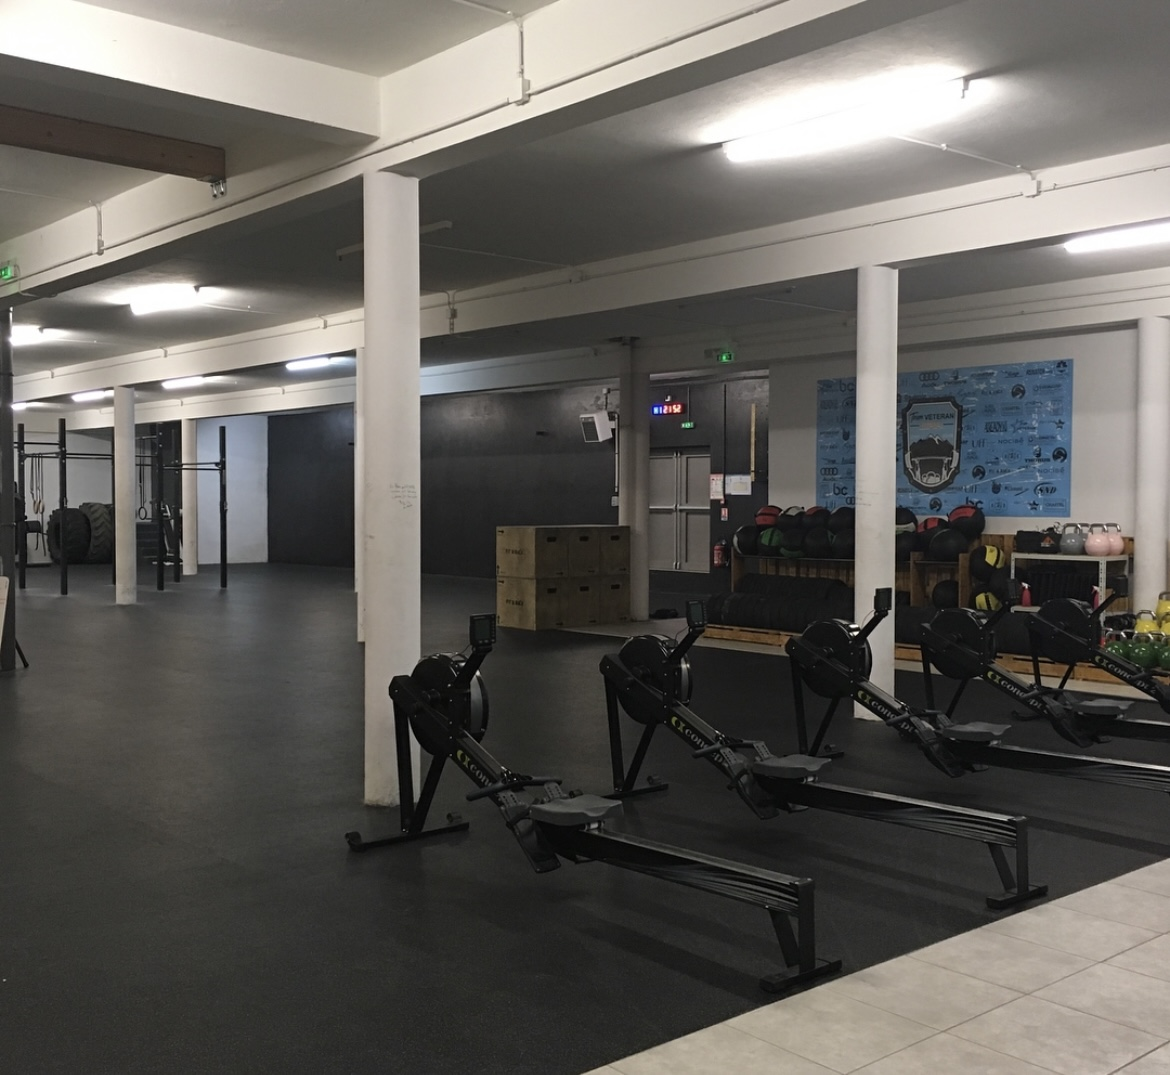
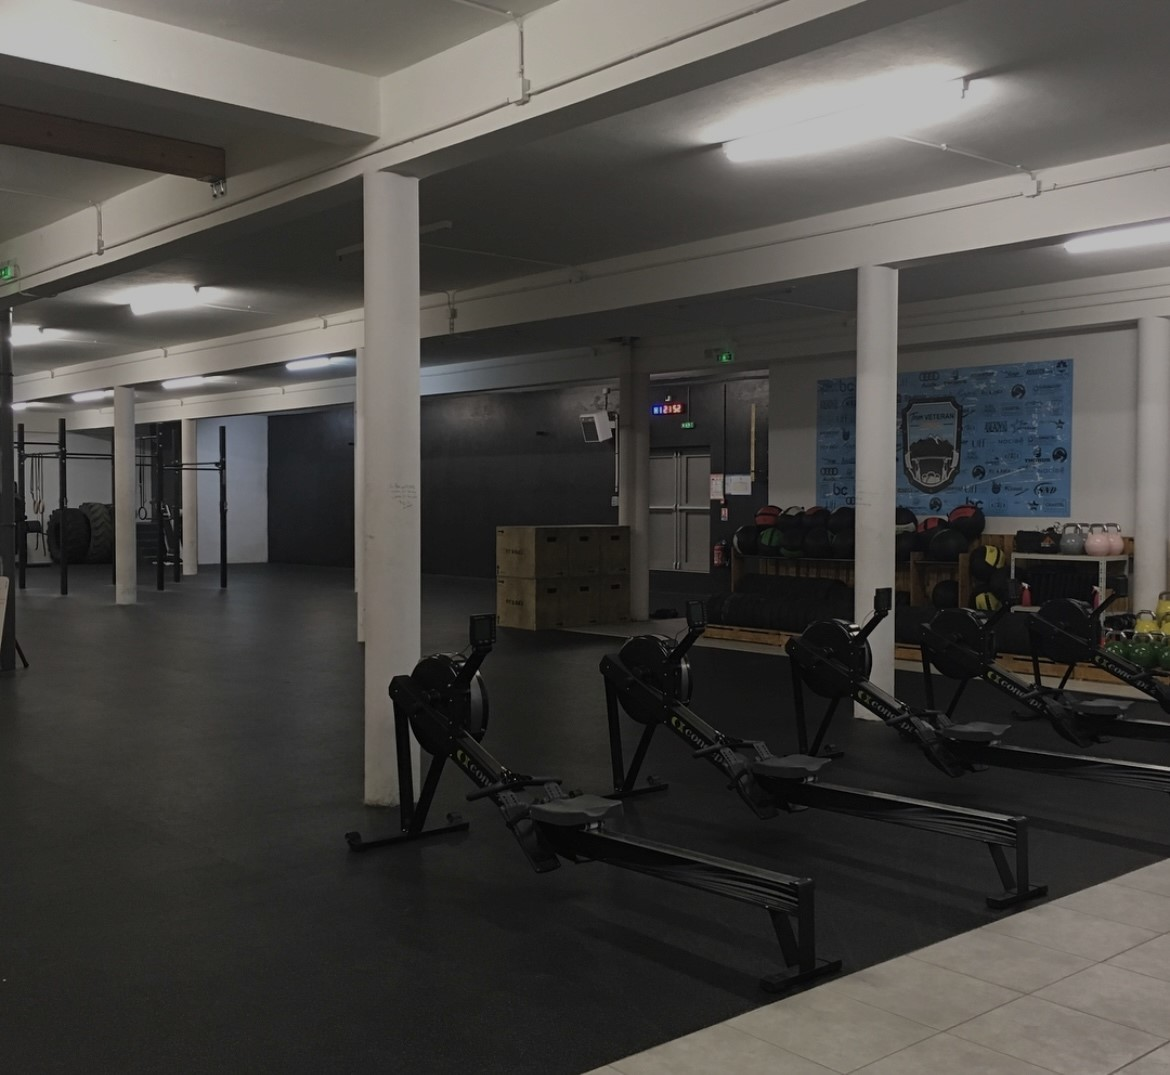
update img

diff --git a/docs/css/screen.css b/docs/css/screen.css
@@ -123,15 +123,15 @@ h2 {
 }
 
 .hero-history {
-    background-image: url('../img/hero-history.jpeg'), linear-gradient(rgba(0,0,0,0.5), rgba(0,0,0,0.5));
+    background-image: url('../img/hero-history.jpeg');
 }
 
 .hero-training {
-    background-image: url('../img/hero-training.jpeg'), linear-gradient(rgba(0,0,0,0.5), rgba(0,0,0,0.5));
+    background-image: url('../img/hero-training.jpg');
 }
 
 .hero-benefit {
-    background-image: url('../img/hero-benefit.jpeg'), linear-gradient(rgba(0,0,0,0.5), rgba(0,0,0,0.5));
+    background-image: url('../img/hero-benefit.jpg');
 }
 
 .hero-content {
